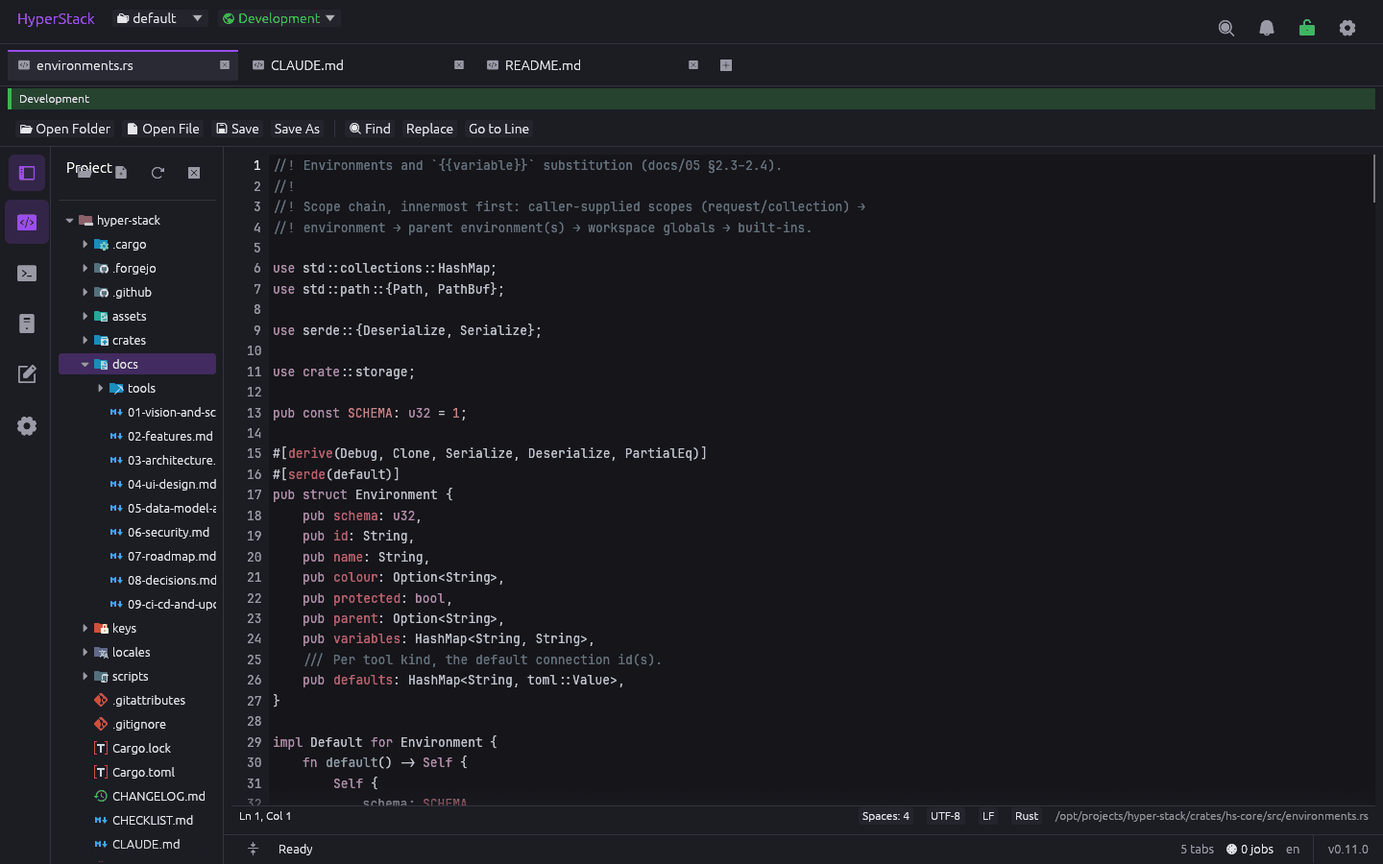
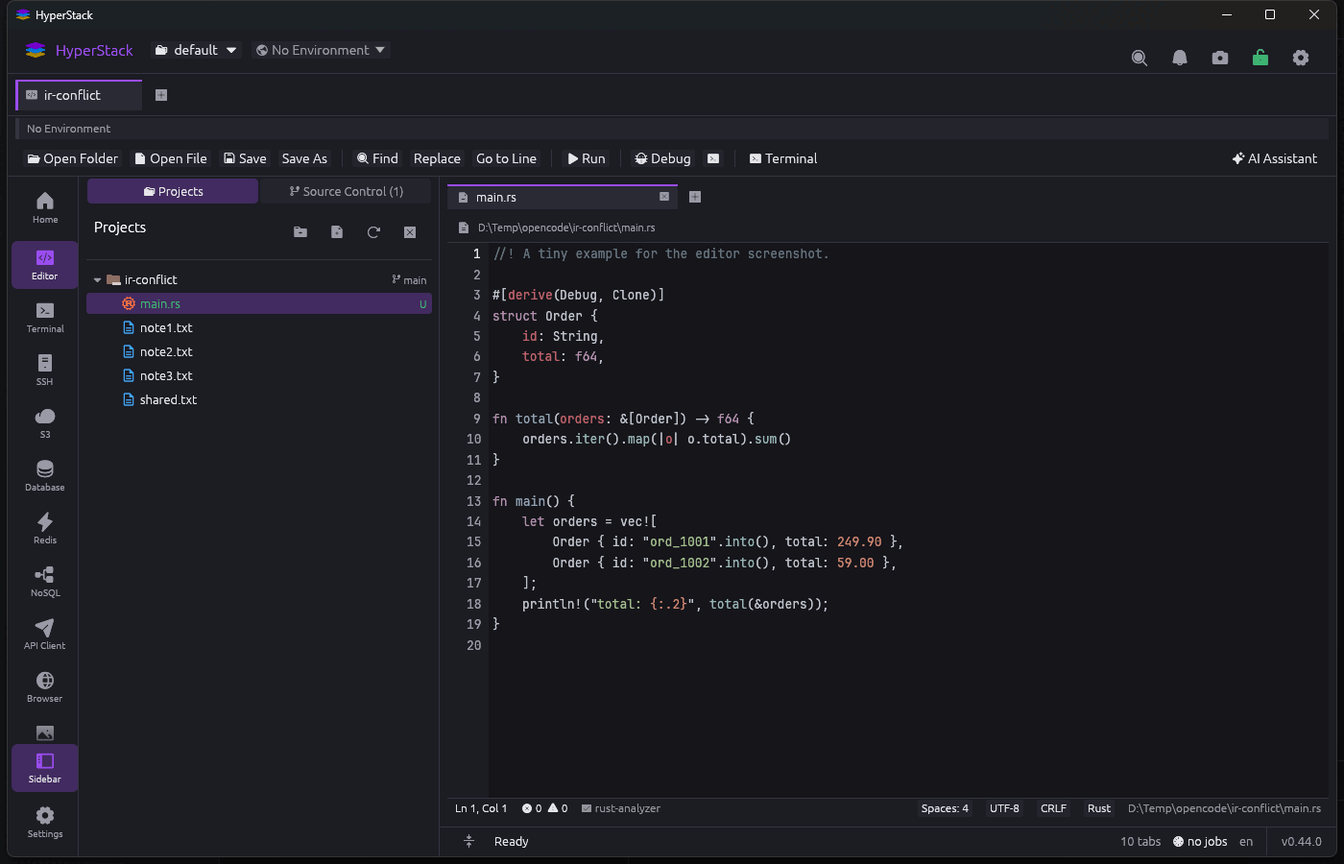
docs: refresh the screenshot set and record the 2026-10-19 requests
README screenshots are organised into 16 categories with an index: Shell and workspaces, Vault and connections, Editor, Git, Terminal, SSH/SFTP, S3, SQL, Redis, NoSQL, API client, Devtools, Graphics, Scratchpad, Browser and Settings. New shots: Git conflict editor and interactive rebase, credentials table and Edit Secret, environment export, Connections, Redis key tree, NoSQL find view, Regex Tester and Text Diff. Retaken on 0.44.0: Home, Editor, Terminal, Production, General, Appearance, Accessibility, Workspace, Security, Environments, Terminal/Editor/Browser settings, Shortcuts and About; the obsolete Welcome shot was removed. hyperstack-demo.gif is rebuilt from the current set.

CHECKLIST gains a dated Owner's requests, 2026-10-19 section (process rules, M4 Git, credentials, environments, docs) and marks the M4 Git tool complete. docs/screenshots/README records the harness change (-WindowStyle Hidden), the Redis/Mongo fixtures and the new set.

diff --git a/README.md b/README.md
@@ -61,31 +61,44 @@ and theme.
 
 ## Screenshots
 
-Every feature that is built today, captured from a real `HyperStack`
-build. See [docs/screenshots/](docs/screenshots/README.md) for how they were
-made.
+Every feature built today, captured from a real `HyperStack` build on
+Windows 11 (HyperStack Dark, activity rail labels on). See
+[docs/screenshots/](docs/screenshots/README.md) for how they were made and
+the fixtures behind them.
 
-### Shell: launcher, command palette, tabs and splits
+| Category | What the shots cover |
+|---|---|
+| [Shell and workspaces](#shell-and-workspaces) | Home, launcher, palette, tabs, split, dock, workspaces, environments |
+| [Vault and connections](#vault-and-connections) | First-run vault, unlock, profiles and secrets |
+| [Editor](#editor) | Projects, files, Markdown and Mermaid, LSP, debugger, AI assistant |
+| [Git](#git) | Tree, Source Control, history, conflict editor, interactive rebase |
+| [Terminal](#terminal) | Shells, search, links |
+| [SSH and SFTP](#ssh-and-sftp) | Host keys, dual pane, tunnels, remote editing |
+| [S3](#s3-and-s3-compatible-storage) | Buckets, profiles, presigned URLs, guards |
+| [SQL databases](#sql-databases-postgresql-mysql--mariadb-sqlite) | Browser, completion, results, transactions, guards |
+| [Redis](#redis) | Key tree, type viewers, console |
+| [NoSQL](#nosql-mongodb-and-couchdb) | Containers, find, documents |
+| [API client](#api-client) | Requests, scripts, assistant |
+| [Devtools](#devtools) | JWT, hashes, Jasypt, PKI, regex, diff |
+| [Graphics](#graphics) | Operations, crop |
+| [Scratchpad and assistant](#scratchpad-and-assistant) | Notes, dictation |
+| [Browser](#browser) | WebView2 pages |
+| [Settings](#settings) | Every page |
+
+### Shell and workspaces
 
 | | |
 |---|---|
 | ![Home tab](docs/screenshots/home.png) | ![Launcher](docs/screenshots/launcher.png) |
-| **Home** — the pinned first tab of every workspace: Get Started cards, workspaces, tools, recent tabs, pinned connections, keys | **Launcher** (Ctrl+T) — tools by category plus pinned connections, filtered as you type |
+| **Home** — the pinned first tab of every workspace: Get Started cards, the workspace switcher and the What do you want to do? tool grid; recent and pinned items live in the sidebar | **Launcher** (Ctrl+T) — tools by category plus pinned connections, filtered as you type |
 | ![Command palette](docs/screenshots/command-palette.png) | ![Multi-row tab strip](docs/screenshots/tabs-multi-row.png) |
 | **Command palette** (Ctrl+Shift+P) — every action, fuzzy-matched, with its shortcut | **Multi-row tab strip** — tabs wrap onto more rows instead of scrolling |
 | ![Split view](docs/screenshots/split-scratchpad.png) | ![Bottom dock](docs/screenshots/dock.png) |
-| **Split panes** (Ctrl+\\) — here README preview beside the Scratchpad notes | **Bottom dock** (Ctrl+J) — Output, Jobs and Problems |
-
-### Workspaces and environments
-
-| | |
-|---|---|
+| **Split panes** (Ctrl+\) — here README preview beside the Scratchpad notes | **Bottom dock** (Ctrl+J) — Output, Jobs and Problems |
 | ![Workspace menu](docs/screenshots/workspace-menu.png) | ![New workspace](docs/screenshots/workspace-new.png) |
 | **Workspace switcher** in the title bar, with the selected workspace logo | **New workspace** — name, logo, and copy environments/connections from another |
 | ![Environment switcher](docs/screenshots/environment-switcher.png) | ![Production environment](docs/screenshots/environment-production.png) |
 | **Environment switcher** — colour-coded, protected ones marked | **Protected Production** — red banner and frame on every tab |
-| ![Environments settings](docs/screenshots/settings-environments.png) | |
-| **Environments** — colour, inheritance, protected flag, variables (secrets go to the vault), export to Postman/Insomnia/Bruno | |
 
 Every activity opens on a **permanent tab of its own** - named after the
 activity, with its icon, and it cannot be closed, pinned or duplicated.
@@ -95,15 +108,9 @@ what it has open, each card carrying the last picture taken of that pane,
 and clicking one goes to the tab. Opening a connection, a note or a shell
 always makes a tab beside it. The API client's permanent tab is the
 workspace's instead, with its logo and name. Pinning a tab puts it
-directly after the permanent one. The Browser shows a **favorites bar**
-under its address bar (Settings → Browser), with Chrome's click rules.
+directly after the permanent one.
 
-Settings is always open as a pinned tab in each workspace. Settings → Workspace
-lets you rename a non-default workspace and set or remove its logo after
-creation. The title-bar notification bell opens recent notifications; Quick
-Open opens the searchable tools, connections and project items palette.
-
-### Secret vault and connections
+### Vault and connections
 
 | | |
 |---|---|
@@ -112,41 +119,45 @@ Open opens the searchable tools, connections and project items palette.
 | ![SSH connection form](docs/screenshots/connection-ssh-form.png) | ![Saved connection](docs/screenshots/connection-saved.png) |
 | **Connection profile** (kind SSH) — host, user, start folder, auth | **Saved** — the password lives in the vault, the profile keeps a `secret:` reference |
 
-### Code editor
+### Editor
 
 | | |
 |---|---|
 | ![Editor](docs/screenshots/editor.png) | ![Markdown preview](docs/screenshots/editor-markdown-preview.png) |
-| **Editor** — project tree with file icons, syntax highlighting, status bar (indent, encoding, EOL, language); with a language server installed (rust-analyzer, typescript-language-server, pyright, gopls, clangd, …): completion as you type, hover, diagnostics and a Problems panel, go to definition (F12), references, rename (F2) and formatting; with a debug adapter installed (CodeLLDB, lldb-dap, debugpy, delve, netcoredbg): breakpoints, stepping, variables, call stack and a console | **Markdown preview** side by side (Ctrl+Shift+M) |
-| **Encoding** — choose UTF-8/UTF-8 BOM, UTF-16 LE/BE with or without BOM, or Windows-1252 per file; reopen a clean file from disk to decode with a different encoding. | |
+| **Editor** — project tree with file icons, syntax highlighting, status bar (indent, encoding, EOL, language) | **Markdown preview** side by side (Ctrl+Shift+M) |
 | ![Find and replace](docs/screenshots/editor-find-replace.png) | ![Mermaid flowchart](docs/screenshots/editor-mermaid-flowchart.png) |
 | **Find and replace** — case, whole word and regex, match count | **Mermaid flowcharts** drawn natively in the preview — subgraphs, shapes, wrapped wide ranks |
 | ![Several projects](docs/screenshots/editor-projects.png) | ![AI model picker](docs/screenshots/editor-ai-models.png) |
-| **Projects as tabs** — each project root has one window tab; opening the same root again focuses it. Inside it, files are a second strip of tabs; both strips wrap onto more rows instead of hiding tabs. File-tab minimum width is configurable in Settings → Appearance. Files from outside the projects (a terminal Ctrl+click) collect in an **Other Files** tab. Ctrl+F4 closes a file, Ctrl+Alt+PgUp/PgDn walks the file tabs. | **Model picker** — the models the provider lists (LM Studio: every downloaded model; 1min.AI: a built-in list), or type any other id |
+| **Projects as tabs** — each project root has one window tab; opening the same root again focuses it. Inside it, files are a second strip of tabs; both strips wrap onto more rows instead of hiding tabs. Files from outside the projects collect in an **Other Files** tab | **Model picker** — the models the provider lists (LM Studio: every downloaded model; 1min.AI: a built-in list), or type any other id |
 | ![Mermaid sequence diagram](docs/screenshots/editor-mermaid-sequence.png) | ![AI review](docs/screenshots/editor-ai-review.png) |
 | **Mermaid sequence diagrams** — participants, messages, notes, loop/alt blocks | **AI Assistant** (Ctrl+Shift+I) — chat about the file or the selection; Explain, Review, Improve, Add Comments; proposed changes as diffs with Apply / Reject |
 | ![Completion from rust-analyzer](docs/screenshots/editor-lsp-completion.png) | ![Problems panel](docs/screenshots/editor-lsp-problems.png) |
 | **Language server features** — completion as you type with documentation, hover, go to definition, references, rename and format through any installed LSP server (Settings → Editor → Language Servers shows which are found) | **Problems panel** (Ctrl+Shift+J) — diagnostics as underlines in the text, listed with file and line; the status bar counts errors and warnings |
 | ![Debugger paused at a breakpoint](docs/screenshots/editor-debug.png) | ![Call stack](docs/screenshots/editor-debug-stack.png) |
 | **Debugger** — breakpoints in the gutter (F9), the stopped line with an arrow, Continue/Step controls (F5, F10, F11), and the Variables tab of the debug panel; adapters (CodeLLDB, lldb-dap, debugpy, delve, netcoredbg) are installed by you, configurations come from `.hyperstack/debug.json`, `.vscode/launch.json` or are generated | **Call Stack** — frames of the paused thread; clicking one shows its variables and line |
+| ![AI Cascade](docs/screenshots/editor-ai-cascade.png) | |
+| **Cascade** — the assistant applies its changes (one undo step each) and keeps going on the updated file until it answers DONE | **Terminal in the editor** (Ctrl+`) — a shell at the foot of the pane, started in the project's folder, several side by side; Run (F5) and Build go there, and a web app opens in the Browser at the address it prints |
+
+### Git
+
+| | |
+|---|---|
 | ![Git in the project tree](docs/screenshots/editor-git-tree.png) | ![Git diff](docs/screenshots/editor-git-diff.png) |
 | **Git in the editor** — the branch on the project, change letters and colours in the tree, change markers in the gutter as you type | **Source Control** (Ctrl+Shift+G) — staged, changed and untracked files; diffs inline or side by side; Up/Down steps through them |
 | ![Git history](docs/screenshots/editor-git-history.png) | |
-| **History** (Ctrl+Shift+H) — commits with branch and tag chips; each commit's message, files and diffs | **Commit, push, pull, stash, branches** — stage and unstage from the list, discard with a question, commit (and push) from the box, fetch/pull/push as jobs, stashes and branches as menus; a protected remote (Settings → Editor → Git) asks before a push and never gets a force |
-| **Conflict editor** — a conflicted file opens block by block: Context, Ours and Theirs under their labels, then Ours / Theirs / Both / a typed result per block; Save and Mark Resolved writes the file and stages it | **Interactive rebase** — pick, squash, fix up, drop or reorder commits; merge, rebase and cherry-pick offer Continue / Skip / Abort when Git pauses |
-| ![AI Cascade](docs/screenshots/editor-ai-cascade.png) | ![AI settings](docs/screenshots/settings-ai.png) |
-| **Terminal in the editor** (Ctrl+`) — a shell at the foot of the pane, started in the project's folder, with as many as you want side by side; PowerShell 7 by default and any installed shell from Settings → Editor → Terminal | **Run and Build** go to that terminal: the project's own commands (Cargo, Maven, Gradle, npm, Go, .NET, Make), Spring Boot through `spring-boot:run` or `bootRun`, and a web application opens in the Browser at the address it prints |
-| **Cascade** — the assistant applies its changes (one undo step each) and keeps going on the updated file until it answers DONE | **AI providers** — Anthropic, Google Gemini, Azure OpenAI, AWS Bedrock, 1min.AI, or any OpenAI-compatible server (OpenAI, Mistral, Kimi, Hunyuan, OpenRouter, local LM Studio or Ollama with every downloaded model). Add one from a gallery of fifteen services; keys in the vault |
+| **History** (Ctrl+Shift+H) — commits with branch and tag chips; each commit's message, files and diffs | **Commit, push, pull, stash, branches, tags** — stage and unstage from the list, discard with a question, commit (and push) with a Conventional Commit prefix, fetch/pull/push as jobs, stashes, branches, remotes and lightweight or annotated tags; a protected remote asks before a push and never gets a force |
+| ![Conflict editor](docs/screenshots/editor-git-conflict.png) | ![Interactive rebase](docs/screenshots/editor-git-rebase.png) |
+| **Conflict editor** — an unmerged file opens block by block: Ours and Theirs under their marker labels, then Ours / Theirs / Both / a typed result per block; **Save and Mark Resolved** writes the file without markers and stages it | **Interactive Rebase** — commits oldest first with Pick / Squash / Fixup / Drop and move arrows; merge, rebase and cherry-pick offer Continue / Skip / Abort when Git pauses |
 
 ### Terminal
 
 | | |
 |---|---|
 | ![Terminal](docs/screenshots/terminal.png) | ![Terminal search](docs/screenshots/terminal-search.png) |
-| ![Shell list with Nushell](docs/screenshots/terminal-shells.png) | |
 | **Terminal** — shell profiles in the sidebar, colours, restart/clear, opened here from the editor with "Open Terminal Here" | **Search** (Ctrl+Shift+F) — plain or regex, match case, every hit highlighted, "n of m" |
+| ![Shell list with Nushell](docs/screenshots/terminal-shells.png) | |
+| **Shell list** — PowerShell 7, Command Prompt, Nushell and Git Bash, ordered by preference | **Links** — hold Ctrl to underline a URL or `path:line:col`; Ctrl+click opens it in the browser or the editor |
 | ![Ctrl+click a file location](docs/screenshots/terminal-links.png) | |
-| **Links** — hold Ctrl to underline a URL or `path:line:col`; Ctrl+click opens it in the browser or the editor | |
 
 ### SSH and SFTP
 
@@ -157,12 +168,7 @@ Open opens the searchable tools, connections and project items palette.
 | ![File pane follows the shell](docs/screenshots/ssh-follow-shell-folder.png) | ![Remote file in the editor](docs/screenshots/ssh-remote-edit.png) |
 | **Follow Shell Folder** — `cd` in the shell moves the file pane | **Edit remote files** — double-click downloads into the editor; saving uploads |
 | ![SSH tunnels](docs/screenshots/ssh-tunnels.png) | |
-| **Tunnels** — local port forwards (`ssh -L`) with live traffic; New Tunnel form in the sidebar | |
-
-**Clipboard** — **Copy** on a remote entry puts it on the system clipboard
-(a folder with everything inside it), ready to paste into the file manager;
-the pane's paste button uploads whatever the clipboard holds into the folder
-on screen. Windows only.
+| **Tunnels** — local port forwards (`ssh -L`) with live traffic; New Tunnel form in the sidebar | **Clipboard** — Copy puts a remote entry (a folder with everything in it) on the system clipboard; paste uploads what the clipboard holds (Windows) |
 
 ### S3 and S3-compatible storage
 
@@ -192,15 +198,28 @@ on screen. Windows only.
 | ![DB connection form](docs/screenshots/connection-db-form.png) | |
 | **Connection** — paste a `postgres://` / `mysql://` / `sqlite:` URL; the password goes into the vault; TLS modes and an SSH tunnel through any SSH profile | |
 
+### Redis
+
+| | |
+|---|---|
+| ![Redis key tree and hash viewer](docs/screenshots/redis-browser.png) | |
+| **Keys** — SCAN-backed tree grouped by prefix with each key's type, a filter, and a type-aware viewer: hashes, strings, lists, sets, sorted sets and streams, with TTL and inline editing behind a confirmation. **Console** runs guarded commands; **Info** shows the server. Protected environments default to read-only | |
+
+### NoSQL (MongoDB and CouchDB)
+
+| | |
+|---|---|
+| ![MongoDB find view](docs/screenshots/nosql-browser.png) | |
+| **Containers** — databases and collections (MongoDB) or databases and document counts (CouchDB); a collection opens in **Find** with filter, projection and sort, the documents as a table and a JSON editor with delete/update guards; **Aggregate** and **Indexes** are beside it | |
+
 ### API client
 
 | | |
 |---|---|
 | ![API client](docs/screenshots/api-client.png) | ![API client scripts](docs/screenshots/api-client-scripts.png) |
 | **Requests** — method, URL with `{{variables}}`, params, headers, body (JSON, text, XML, form, multipart, binary), auth (inherit, basic, bearer, API key); response as pretty, raw or preview with headers, cookies, tests and console; Copy as curl, Import curl; history | **Scripts** — pre-request and post-response JavaScript with the `pm` API (`pm.environment`, `pm.globals`, `pm.collectionVariables`, `pm.request`, `pm.response`, `pm.test`, `pm.expect`, `console`), snippets, collection libraries; Postman v2.1 collections and environments import and export |
-
 | ![API client AI assistant](docs/screenshots/api-client-ai.png) | |
-| **Assistant that fills the client** — ask for a collection, a request, headers, a body, auth, scripts or docs; the answer's `hs-api` block gets **Apply**, which edits the open request and the collections exactly as the sidebar would. Nothing is sent until you press Send. | |
+| **Assistant that fills the client** — ask for a collection, a request, headers, a body, auth, scripts or docs; the answer's `hs-api` block gets **Apply**, which edits the open request and the collections exactly as the sidebar would. Nothing is sent until you press Send | |
 
 Collections are JSON files in the workspace; variables resolve through the
 collection, the active environment (vault secrets only when sending) and
@@ -214,31 +233,33 @@ globals. A non-GET request to a protected environment asks first.
 | **JWT** — decode with claim explanations and expiry, verify with a secret or public key, sign for testing (HS256/384/512, RS256/384/512, ES256); the secret can be saved to the environment (vault) and the `{{reference}}` peeked | **Hashes** — MD5, SHA-1/2/3, BLAKE3, CRC32 of text or a file, HMAC, hex or Base64, compare field |
 | ![Jasypt](docs/screenshots/devtools-jasypt.png) | ![PKI messages](docs/screenshots/devtools-pki.png) |
 | **Jasypt** — `PBEWithMD5AndDES` and `PBEWITHHMACSHA512ANDAES_256` property encryption with jasypt's salt/IV layout and `ENC(…)`, plus the legacy DES/AES/MD5 DataEncryptor | **PKI messages** — sign with RSA and encrypt with AES-256-GCM under a shared key derived from a device id, then decrypt and verify, for both request and response flows |
-| **Regex Tester** — a pattern with flags, every match with its groups, a replacement preview; the same engine as the app's filters | **Text Diff** — two texts side by side, changed lines marked, whitespace-insensitive mode, copy as a unified diff |
+| ![Regex Tester](docs/screenshots/devtools-regex.png) | ![Text Diff](docs/screenshots/devtools-diff.png) |
+| **Regex Tester** — a pattern with flags, every match with its groups and positions, and the text with matches marked; the same engine as the app's filters | **Text Diff** — two texts side by side, changed lines marked, whitespace-insensitive mode, copy as a unified diff |
 
 Also **Base64** (auto-detect, picture/text/document preview, data URI,
 Basic auth header), **URL** (percent-encode and decode a component, a whole
-URL or form data, with a table of the URL's parts) and **Firebase tokens**
-(custom, access and ID tokens from a service account). Keys typed into a
-utility are never saved.
+URL or form data, with a table of the URL's parts), **YAML/TOML/XML**
+(check, format, convert), **Firebase tokens**, **Generators**, **Cron**,
+**Unit Conversion** and **PKI messages**. Keys typed into a utility are
+never saved.
 
 ### Graphics
 
 | | |
 |---|---|
 | ![Graphics](docs/screenshots/graphics.png) | ![Graphics operations](docs/screenshots/graphics-ops.png) |
+| **Pictures** open from the editor's project tree or a dialog; zoom on a checkerboard; convert between PNG, JPEG, WebP, BMP, GIF and ICO; multi-size ICO export; icon frame extraction | **Operations** — resize, scale, extend canvas, crop, rotate, flip, brightness, contrast, hue, saturation, grayscale, invert, blur, sharpen, each removable; review-only AI assistant |
 | ![Crop placeholder](docs/screenshots/graphics-crop.png) | |
 | **Crop placeholder** — Select on Canvas shows a rectangle with grips; move it, resize it by an edge or corner, or draw a new one, and the X/Y/W/H boxes follow | |
-| **Pictures** open from the editor's project tree or a dialog; zoom on a checkerboard; convert between PNG, JPEG, WebP, BMP, GIF and ICO; multi-size ICO export; icon frame extraction | **Operations** — resize, scale, extend canvas, crop, rotate, flip, brightness, contrast, hue, saturation, grayscale, invert, blur, sharpen, each removable; review-only AI assistant |
 
-### Scratchpad
+### Scratchpad and assistant
 
 | | |
 |---|---|
-| ![Dictation into an assistant](docs/screenshots/ai-dictation.png) | |
-| **Dictate to any assistant** — the microphone beside Send runs the operating system's own speech recognition (offline); phrases are typed into the box, a stop keeps the phrase in flight, the session ends on its own after a set time, and nothing is sent until you press Send | |
 | ![Scratchpad](docs/screenshots/scratchpad.png) | ![Scratchpad AI assistant](docs/screenshots/scratchpad-ai.png) |
 | **Notes** — a collection of Markdown notes per workspace: the sidebar lists them newest first with pinned notes on top, one tab per note, source and preview side by side, saved 1.5 s after typing stops | **Assistant** — drafts checklists, tables, Mermaid diagrams and command fences; each block inserts at the cursor |
+| ![Dictation into an assistant](docs/screenshots/ai-dictation.png) | |
+| **Dictate to any assistant** — the microphone beside Send runs the operating system's own speech recognition (offline); phrases are typed into the box, a stop keeps the phrase in flight, the session ends on its own after a set time, and nothing is sent until you press Send | |
 
 ### Browser
 
@@ -252,15 +273,19 @@ utility are never saved.
 | | |
 |---|---|
 | ![General](docs/screenshots/settings-general.png) | ![Appearance](docs/screenshots/settings-appearance.png) |
-| **General** — startup workspace, restore tabs, language; export and import settings and shortcuts behind the master password | **Appearance** — System / Dark / Light mode with a scheme for each (clickable swatches), interface font and size, UI zoom, tab widths, activity rail order and labels |
+| **General** — startup workspace, restore tabs, language; export and import settings and shortcuts behind the master password | **Appearance** — System / Dark / Light mode with a scheme for each (clickable swatches), interface font and size, UI zoom, tab widths, activity rail labels and order |
 | ![Accessibility](docs/screenshots/settings-accessibility.png) | ![Workspace](docs/screenshots/settings-workspace.png) |
-| **Accessibility** — Read Aloud through the OS voice (a title-bar button lists what the active tab can read), speech rate, reduce motion | **Workspace** — rename, logo, folder, compare environments with another workspace and copy the missing ones |
-| ![Security](docs/screenshots/settings-security.png) | ![Shortcuts](docs/screenshots/settings-shortcuts.png) |
-| **Security** — vault status, relock timer, clipboard clearing, the credentials table with Reveal Secret / Edit Secret | **Shortcuts** — every action rebindable; conflicts listed |
+| **Accessibility** — Read Aloud through the OS voice, speech rate, reduce motion | **Workspace** — rename, logo, folder, compare environments with another workspace and copy the missing ones |
+| ![Environments](docs/screenshots/settings-environments.png) | ![Security](docs/screenshots/settings-security.png) |
+| **Environments** — colour, inheritance, protected flag; variables edited in place; **Import…** merges Postman/Insomnia/Bruno JSON and **Export…** writes Postman, Insomnia, Bruno or Flat JSON (secrets omitted) | **Security** — unlocked vault, relock and clipboard timers, and the credentials table: masked passwords, **Reveal Secret** and **Edit Secret** in the Action column |
+| ![Edit Secret](docs/screenshots/settings-credential-edit.png) | ![Connections](docs/screenshots/settings-connections.png) |
+| **Edit Secret** — after the master password, the password and key are editable; typed values move into the vault, an empty field clears the secret | **Connections** — every profile by kind, folder and tags, drag to reorder, Edit and Test Connection |
 | ![Terminal settings](docs/screenshots/settings-terminal.png) | ![Editor settings](docs/screenshots/settings-editor.png) |
-| **Terminal** — default shell, font, right-click copy/paste, link detection | **Editor** — font, right-click, trim and final newline on save, auto reload |
-| ![About](docs/screenshots/settings-about.png) | |
-| **About** — version, update channel, Check Now, release notes, data folder | |
+| **Terminal** — default shell, font, right-click copy/paste, link detection | **Editor** — font, right-click, trim and final newline on save, auto reload, language servers and debug adapters |
+| ![Browser settings](docs/screenshots/settings-browser.png) | ![Shortcuts](docs/screenshots/settings-shortcuts.png) |
+| **Browser** — home page, blocking and script defaults, extra blocked hosts | **Shortcuts** — every action rebindable; conflicts listed |
+| ![AI settings](docs/screenshots/settings-ai.png) | ![About](docs/screenshots/settings-about.png) |
+| **AI providers** — Anthropic, Google Gemini, Azure OpenAI, AWS Bedrock, 1min.AI or any OpenAI-compatible server; add one from a gallery of fifteen services, keys in the vault | **About** — installed version, update channel, Check Now, release notes, data folder |
 
 Every tab can be **snipped** to a PNG (Ctrl+Alt+S, camera menu) or
 **printed** (Ctrl+Alt+P) as an HTML page with a Light/Dark switch that
@@ -324,9 +349,9 @@ Full reasoning in [docs/08-decisions.md](docs/08-decisions.md).
 | Terminal | [tools/terminal.md](docs/tools/terminal.md) | Yes |
 | Containers (Docker / Podman / Kubernetes) | [tools/containers.md](docs/tools/containers.md) | Phase 2 |
 | Devtools drawer (JSON, JWT, regex, cron, diff, …) | [tools/devtools.md](docs/tools/devtools.md) | Completed (core set; JSON query and the P1 extras remain) |
-| [docs/tools/graphics.md](docs/tools/graphics.md) | Graphics: pictures, operations, formats, icons, crop placeholder |
-| [docs/tools/scratchpad.md](docs/tools/scratchpad.md) | Scratchpad: Markdown notes per workspace, pinning, dual pane, AI assistant |
-| [docs/tools/browser.md](docs/tools/browser.md) | Browser: WebView2 pages, blocking, dark mode, devtools |
+| Graphics | [tools/graphics.md](docs/tools/graphics.md) | Yes |
+| Scratchpad | [tools/scratchpad.md](docs/tools/scratchpad.md) | Yes |
+| Browser | [tools/browser.md](docs/tools/browser.md) | Windows |
 
 ## Build and run
 

diff --git a/CHECKLIST.md b/CHECKLIST.md
@@ -5,7 +5,7 @@ States: `Completed` · `In-Progress` · `Pending`. Update a line only after the
 work is verified (checks pass and the feature was exercised in the running
 app), then commit and push.
 
-Last updated: 2026-10-15 (Home tab, theme modes, accessibility, devtools, API client, graphics, browser, snip/print verified in the running app)
+Last updated: 2026-10-19 (M4 Git complete: branch management, merge/rebase, interactive rebase, tags and the block conflict editor; credentials reveal/edit; environment export; documentation and screenshots update)
 
 ## Planning
 
@@ -165,8 +165,6 @@ Last updated: 2026-10-15 (Home tab, theme modes, accessibility, devtools, API cl
 | Title-bar icon rhythm (Read Aloud beside Snip/Print) | Completed | `icon_menu` on `icon_button` (2026-10-15, request 4) |
 | Graphics sidebar tidy: aligned rows, full-width sliders, crop placeholder on the canvas | Completed | `Rows` grid helper, `slider_block`, `crop_overlay` |
 | Scratchpad: notes collection with sidebar list, pinning, one tab per note, dual pane, AI assistant | Completed | `docs/tools/scratchpad.md` |
-| Credentials: Action column with Reveal Secret / Edit Secret, password and key editable behind the master password | Completed | `credentials::Row` carries a password and a key secret (SSH key passphrase); reveal covers both; edit moves typed values into the vault and never writes plaintext. Exercised in the app: reveal showed `hunter2`, edit saved `n3w-secret` as `secret:` and the vault was re-read; profile TOML had no plaintext. |
-| Environments: edit variables in place and export to Postman / Insomnia / Bruno / flat JSON, secrets omitted | Completed | `tool_api::env_export` (2 tests incl. round-trip through the importer); Export menu on the Variables card; secrets (toggle or `secret:`) write empty, Postman keeps `type: secret`. Exercised in the app: edited and saved `api_base`, exported a Postman file with the real value. |
 | API client assistant that fills the client (collections, requests, fields, scripts, docs) | Completed | `tool-api::assist`, `hs-api` blocks with Apply; `api_tests.rs` |
 | Performance pass over the new code | Completed | per-frame digests/verification/parsing cached; assistant context rebuilt on change |
 | Graphics: crop placeholder resizes from every edge/corner; live Adjust sliders; Grayscale/Invert toggles | Completed | press-origin grip test, preview layer, `fix/graphics-crop-live-adjust` |
@@ -245,7 +243,7 @@ Last updated: 2026-10-15 (Home tab, theme modes, accessibility, devtools, API cl
 | UI casing: a parenthetical on a label starts with a capital | Completed | 13 strings in `locales/en.ftl` plus `redis::profile::mode_label`; rule recorded in CLAUDE.md; verified live — "None (Direct connection)", "Standalone" |
 | Settings → Connections: Test Connection between Save and Delete | Completed | `conn_test` (2 tests): SSH, S3, SQL, Redis, MongoDB and CouchDB through their own drivers, on the runtime; verified live — SQLite answered "Connected. SQLite 3.50.2" and a Redis server that was not running answered "timed out" |
 | Graphics: one tab per image, reopening focuses the tab that has it | Completed | `uri_affinity` answers only while the tab is empty, both open paths go through `Services::open`; verified live — red then blue made two tabs, reopening red focused its own |
-| Documentation, screenshots, GIF | In-Progress | docs updated 2026-10-15; new screenshots captured with the PowerShell harness; the walkthrough GIF still shows the 0.17 flows |
+| Documentation, screenshots, GIF | Completed | docs updated 2026-10-15; superseded by the 2026-10-19 documentation and screenshot pass below |
 
 ## Owner's requests, 2026-10-17
 
@@ -311,3 +309,26 @@ listed first.
 | Editor: detect a project's language and offer its tooling | Completed | `tool-editor::project` - Maven, Gradle, Cargo, npm, Go, .NET, Python, Make, CMake, with Spring Boot read from the pom or the Gradle build file; the project's wrapper preferred over the Settings -> Editor -> Build Tools paths; Build (Ctrl+Shift+B) and Run both go to the editor terminal; a web app opens in the Browser at the address it prints (10 tests); verified live - Run on a Node project typed `npm run dev` in the editor terminal and the Browser opened http://localhost:5173 |
 | Shell: a dashboard home tab is never taken over by a connection | Completed | `Tool::home_is_dashboard` keeps `unbound_tab` and the URI router off it; verified live — clicking a Database connection opened a second tab beside the permanent one instead of consuming it |
 | Devtools: bandwidth and speed conversion | Completed | a Bandwidth pane with both families and a transfer-time calculator; two tests |
+
+## Owner's requests, 2026-10-19
+
+Raised during the Git and settings sessions that ran from 2026-10-18 late
+evening into 2026-10-19 (owner's time zone, Asia/Kuala_Lumpur). The two
+process rules are standing instructions, mirrored in CLAUDE.md; every other
+item below was documented in the affected docs before the code was written.
+
+| Item | State | Notes |
+|---|---|---|
+| Process: plan first and document a request in every affected document before coding | In effect | each request's design was written first in `docs/tools/git.md`, `docs/04-ui-design.md`, `docs/05`, `docs/06`, `docs/tools/api-client.md`, `README.md`, this file and `CHANGELOG.md` |
+| Process: create a proper feature branch before editing code | In effect | `feat/m4-git-branch-management`, `feat/m4-git-interactive-rebase`, `feat/credentials-edit-and-env-export`, `feat/git-conflict-editor`; each passed CI before merging |
+| Git: rename a branch and set its upstream | Completed | `write::rename_branch`/`set_upstream`, branch menu; fixture test checks the tracking branch |
+| Git: remotes add/edit/remove; tags create/delete/push | Completed | `write::{add_remote,set_remote_url,remove_remote,tags,create_tag,delete_tag,push_tag}`; a protected remote or tag asks first |
+| Git: merge, rebase and cherry-pick with Continue / Skip / Abort | Completed | `OperationState` detection plus the three commands; the menu follows Git's paused state |
+| Git: Conventional Commit prefix picker in the commit box | Completed | `COMMIT_PREFIXES`; picking a type prepends it once, Clear removes it |
+| Git: whole-file conflict resolution | Completed | Keep Ours / Keep Theirs / Mark as Resolved on a conflicted row; `resolve_conflict` rewrites and stages the file |
+| Git: interactive rebase | Completed | `write::rebase_interactive` writes the todo into the git dir and runs `git rebase -i` with a sequence editor, so no editor opens; pick/squash/fixup/drop/reorder; exercised in the app (a commit dropped) |
+| Git: annotated tags | Completed | a message makes `git tag -a`; `tag.gpgSign=false` so no pinentry can block the app; engine test |
+| Git: line-level conflict editor | Completed | `hs-git::conflict` parses two-way and diff3 blocks (CRLF and malformed blocks kept); the main area shows Context, Ours and Theirs per block with Ours / Theirs / Both / Custom, All Ours / All Theirs, and Save and Mark Resolved; exercised in the app (Both and Custom) |
+| Credentials: Action column with Reveal Secret / Edit Secret, password and key editable behind the master password | Completed | `credentials::Row` carries a password and a key secret (SSH key passphrase); reveal covers both; edit asks the master password, moves typed values into the vault and never writes plaintext. Exercised in the app: reveal showed `hunter2`, edit saved `n3w-secret` as `secret:` and the vault re-read it; the profile TOML had no plaintext |
+| Environments: edit variables in place and export to Postman / Insomnia / Bruno / flat JSON, secrets omitted | Completed | `tool_api::env_export` (2 tests incl. a round-trip through the importer); Export menu on the Variables card; secret rows write an empty value and Postman keeps `type: secret`. Exercised in the app: edited and saved `api_base`, exported a Postman file with the real value |
+| Documentation, screenshots and GIF for every feature | Completed | README screenshots restructured into 16 categories with a category index; new shots for the Git conflict editor and interactive rebase, credentials (table and Edit Secret), environment export, Connections, Redis, NoSQL, Regex Tester and Text Diff; Settings shots retaken on 0.44.0; Home, Editor, Terminal and Production retaken; obsolete Welcome shot removed; walkthrough GIF rebuilt from the current set; `docs/screenshots/README.md` records the fixtures and harness |

diff --git a/docs/screenshots/README.md b/docs/screenshots/README.md
@@ -79,3 +79,44 @@ sample token. The walkthrough GIF (`hyperstack-demo.gif`) is now a
 slideshow assembled with ImageMagick from the current screenshots
 (`magick -delay 150 -loop 0 <frames> -resize 1200x hyperstack-demo.gif`),
 one screen every 1.5 s, replacing the 0.17 screen recording.
+
+## 2026-10-19 set: Git, credentials, environments, Redis, NoSQL, Devtools
+
+Captured on Windows 11 from the debug build with
+`scripts/gui-smoke.ps1` (now started with `-WindowStyle Hidden` so the
+debug console does not sit over the window), HyperStack Dark, the
+activity rail labels on, and the window at 0,0 sized 1400x900.
+
+New shots:
+
+- `editor-git-conflict.png` and `editor-git-rebase.png` — a fixture
+  repository with a real `UU shared.txt` merge and three commits loaded
+  into the Interactive Rebase panel (`HEAD~3`).
+- `settings-security.png` (vault unlocked, `hunter2` revealed in the
+  shop-postgres row, Action column) and `settings-credential-edit.png`
+  (Edit Secret for the same row).
+- `settings-environments.png` (the dev environment with its variables and
+  the Export… menu open) and `settings-connections.png`.
+- `redis-browser.png` — a local Redis 8.6 under WSL with string, hash,
+  list, set, sorted set and stream keys; `user:1001` selected.
+- `nosql-browser.png` — MongoDB 7 in the `hs-mongo` Docker container, the
+  `shop.orders` collection in the Find view (filter, projection, sort).
+  `hs-couch` runs beside it for CouchDB.
+- `devtools-regex.png` and `devtools-diff.png` — a pattern with named
+  groups over four lines, and a two-text diff with +3/−2 lines.
+
+Retaken for the current UI: `settings-general.png`,
+`settings-appearance.png`, `settings-accessibility.png`,
+`settings-workspace.png`, `settings-terminal.png`, `settings-editor.png`,
+`settings-browser.png`, `settings-shortcuts.png` and
+`settings-about.png`. The obsolete `welcome.png` (the page moved to Home)
+was removed.
+
+`hyperstack-demo.gif` is regenerated from this set with ImageMagick
+(`magick -delay 150 -loop 0 <frames> -resize 1200x -colors 256`), one
+screen every 1.5 s.
+
+Fixtures: the vault's master password is `TestMaster1` (scratch only);
+Redis is started in WSL and the distro held open with a sleeping `wsl`
+process (it stops when the last command exits); `docker start hs-mongo
+hs-couch` after that hold, or the containers stop with the distro.

diff --git a/CHANGELOG.md b/CHANGELOG.md
@@ -11,7 +11,7 @@ Format: [Keep a Changelog](https://keepachangelog.com/en/1.1.0/) · Versioning:
 
 ## Unreleased
 
-- (nothing yet)
+- Documentation and screenshots: the README's screenshot set is organised into 16 categories, with new shots for the Git conflict editor and rebase, credentials editing, environment export, Connections, Redis, NoSQL, Regex Tester and Text Diff, retaken Settings/Home/Editor/Terminal/Production shots, and a rebuilt walkthrough GIF.
 
 ## 0.44.0 — 2026-10-18
 
